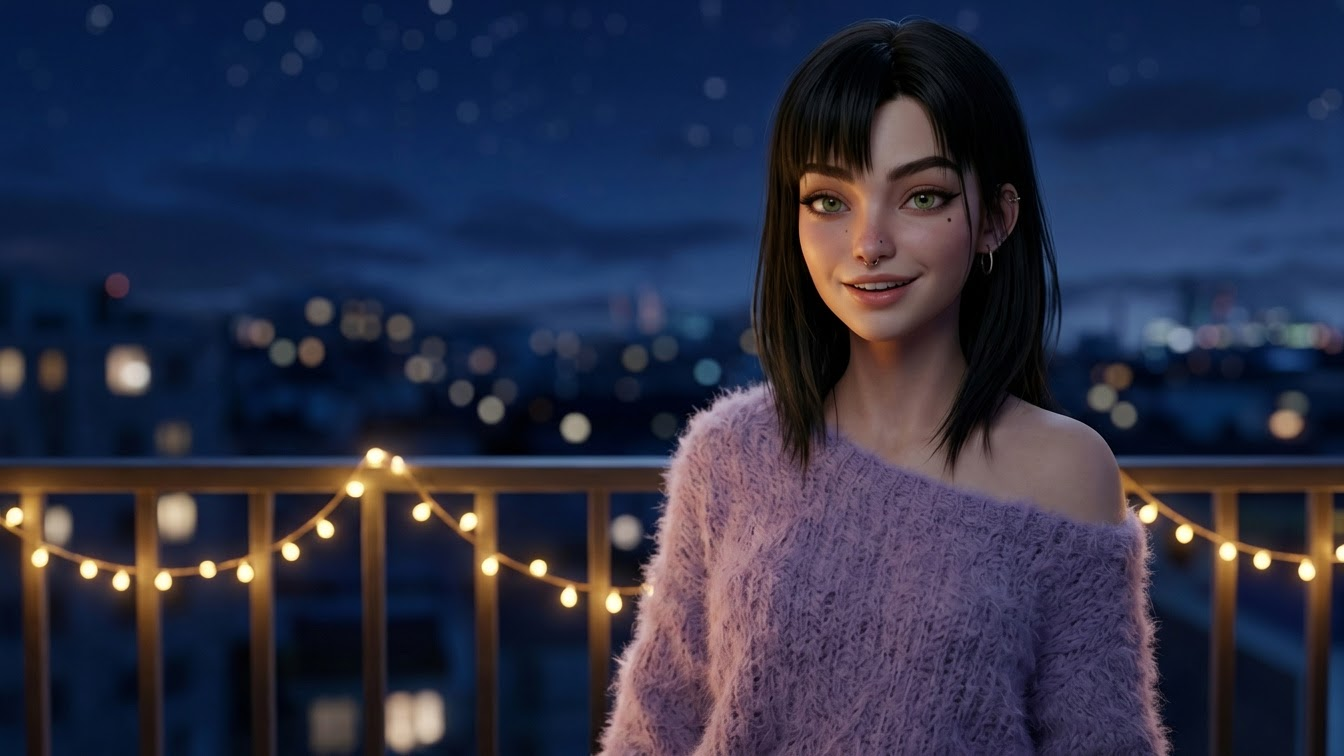
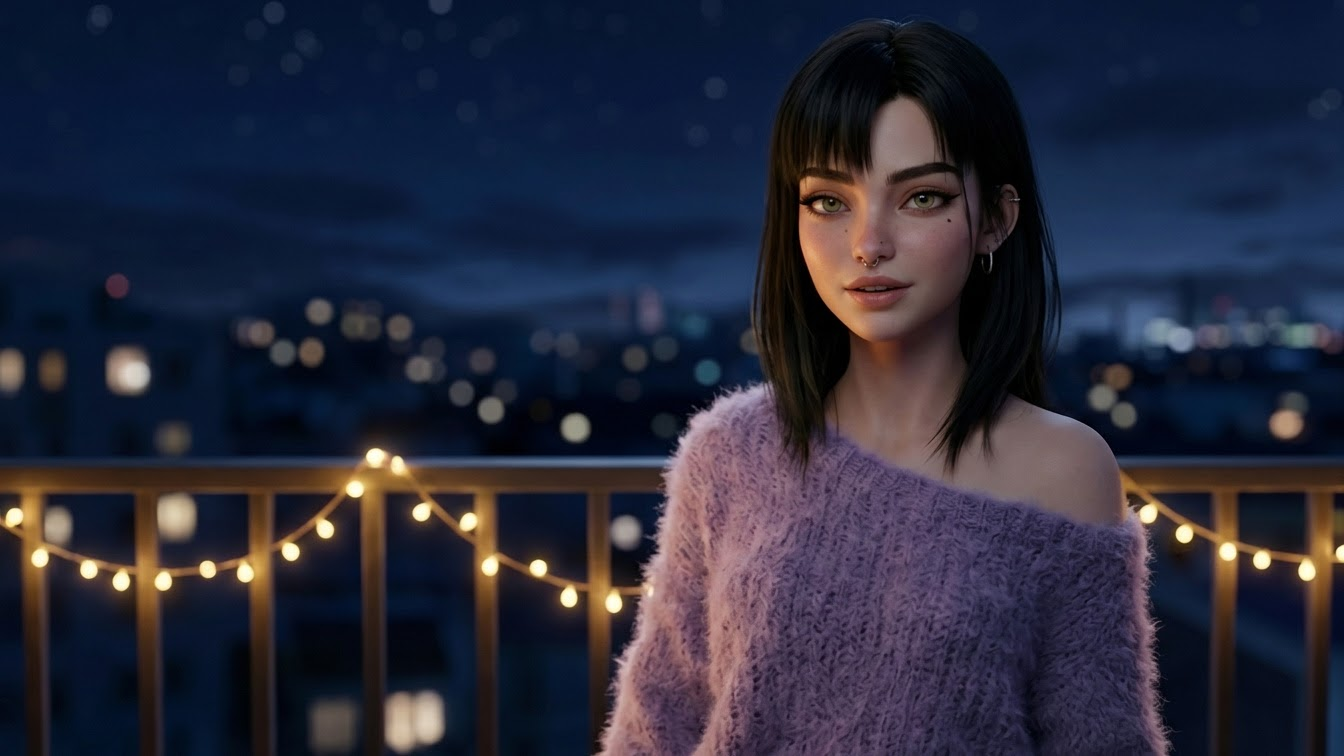
V8.9 Etappe 5b: Mama einmal vor dem Haus, neue Lynn-Posen N14t/s/k, Mia-Lichtshow ohne Spiegeln/Doppelbilder
Claude-Session: https://claude.ai/code/session_016T1VdBnTGbjTaTfWnHwwss

diff --git a/spiel/dist/index.html b/spiel/dist/index.html
@@ -2485,6 +2485,7 @@ Alter, singt der schief.
 ? „Umdrehen“ -> UMDREHEN wenn !umgedreht
 
 == W4
+@setze wo = 4
 @ton schritte 1.8s
 @uhr +4
 @loop wind aus
@@ -2492,6 +2493,22 @@ Alter, singt der schief.
 @effekt heranzoomen
 @musik party strasse 4
 @warte 2.2
+# V9.0: Mama schreibt vor dem Haus (einmal auf jedem Weg; man kann noch umdrehen). Text unverändert, der Spieler zeigt nur „…“.
+@wenn !mama
+  @setze mama
+  @ton bzzz
+  @handy sperr
+  @benachrichtigung WhatsApp | Mama | Viel Erfolg am Montag, mein Schatz. Du schaffst das ❤
+  @benachrichtigung WhatsApp | Mama | Papa sagt auch toi toi toi 🍀
+  @tipp
+  ~ …
+  … !2
+  @handy zu
+  ? „Reingehen.“ -> W4_REIN
+  ? „Umdrehen.“ -> UMDREHEN wenn !umgedreht
+@ende
+
+== W4_REIN
 @bild TREPPE_HELL schnitt
 Die Bässe gehen bis auf die Treppe.
 -> PARTY_ANKUNFT
@@ -2596,7 +2613,6 @@ Oh Mann …
 Jonas hat nicht zu viel versprochen.
 @wenn ankunft>22:45
   @setze lied
-  @rufe MAMA
 @ende
 @bild B12T schnitt
 Jonas!: „NA ALSO!“
@@ -2759,15 +2775,18 @@ Jonas: „Der ist so dicht, der kann nix dafür.“
   … !3
   @bild N32dC gesicht
   Ich singe mit.
-  @setze mama
-  @ton bzzz
-  @handy sperr
-  @benachrichtigung WhatsApp | Mama | Viel Erfolg am Montag, mein Schatz. Du schaffst das ❤
-  @benachrichtigung WhatsApp | Mama | Papa sagt auch toi toi toi 🍀
-  @tipp
-  ~ Noch 58 Stunden.
-  … !2
-  @handy zu
+  # V9.0: Mama kommt nur noch einmal, vor dem Haus (W4); hier nur, falls sie noch nicht kam
+  @wenn !mama
+    @setze mama
+    @ton bzzz
+    @handy sperr
+    @benachrichtigung WhatsApp | Mama | Viel Erfolg am Montag, mein Schatz. Du schaffst das ❤
+    @benachrichtigung WhatsApp | Mama | Papa sagt auch toi toi toi 🍀
+    @tipp
+    ~ Noch 58 Stunden.
+    … !2
+    @handy zu
+  @ende
   @musik lied aus
   @bild N32dP gesicht
   @warte .8
@@ -3483,7 +3502,9 @@ Fast draußen. Ich dreh mich nochmal um.
 Ich leg meine dazu.
 @abzeichen Zwischen den Jacken
 @setze lied
-@rufe MAMA
+@wenn !mama
+  @rufe MAMA
+@ende
 @musik party leise
 # V8.8 (J1-5): kurz nach dem Feuerlöscher, alle reden noch davon
 @bild FEUER
@@ -7499,7 +7520,9 @@ const Spiel = (() => {
     if (schnell) vz += 6.2 + (MIA_BEATS[MIA_BEATS.length - 1] - MIA_BEATS[0]);
     const folge = ['MM01', 'MK1', 'MM03', 'MM05', 'MK2', 'MM06', 'MM02', 'MM08', 'MK3', 'MM07', 'MM01', 'MM09', 'MM03', 'MK1', 'MM05', 'MM06', 'MK2', 'MM02', 'MM08', 'MM07', 'MK3', 'MM09', 'MM05', 'MM01'];
     const schritte = []; let i = 0, f = 0;
-    while (i < MIA_BEATS.length) { const doppel = !(i >= 16 && i < 24) && !(i >= 40); schritte.push([MIA_BEATS[i], folge[f++ % folge.length]]); i += doppel ? 2 : 1; }
+    while (i < MIA_BEATS.length) { const doppel = !(i >= 16 && i < 24) && !(i >= 40); { // V9.0: kein Bild zweimal in den letzten 5 Schritten (wirkte wie Doppelbild); Reihenfolge zufällig, aber ohne Wiederholung
+        const alle = [...new Set(folge)]; const letzte = schritte.slice(-5).map(x => x[1]); const frei = alle.filter(c => !letzte.includes(c));
+        schritte.push([MIA_BEATS[i], frei[Math.random() * frei.length | 0]]); f++; } i += doppel ? 2 : 1; }
     const weiss = $('#weiss'); const strobo = $('#strobo');
     for (const [zeit, code] of schritte) {
       if (!schnell) { while (Ton.miaPos() >= 0 && Ton.miaPos() < zeit - .025) { await new Promise(r => setTimeout(r, 8)); } }
@@ -7508,7 +7531,7 @@ const Spiel = (() => {
       const z = 1.04 + Math.random() * .22, x = (Math.random() - .5) * 8, y = (Math.random() - .5) * 6, r = (Math.random() - .5) * 4;
       kamera.style.transition = 'none'; kamera.style.transform = `scale(${z + .06}) translate(${x}%,${y}%) rotate(${r}deg)`; void kamera.offsetWidth;
       kamera.style.transition = 'transform .5s cubic-bezier(.2,.8,.2,1)'; kamera.style.transform = `scale(${z}) translate(${x * .8}%,${y * .8}%) rotate(${r * .6}deg)`;
-      welt.classList.toggle('spiegel', Math.random() < .3 && !code.startsWith('MK'));
+      welt.classList.remove('spiegel');   // V9.0: Mia nicht mehr spiegeln (wirkte wie Doppelbild)
       if (Math.random() < .6) { weiss.classList.remove('an', 'kurz'); void weiss.offsetWidth; weiss.classList.add('an', 'kurz'); }
       // Stroboskop: immer wieder ganz kurze, ultrahelle weiße Blitze
       if (!schnell && Math.random() < .42) { const n = 3 + (Math.random() * 3 | 0); for (let k = 1; k <= n; k++) setTimeout(() => { strobo.classList.remove('an'); void strobo.offsetWidth; strobo.classList.add('an'); }, 70 + k * 62); }

diff --git a/spiel/engine.js b/spiel/engine.js
@@ -665,7 +665,9 @@ const Spiel = (() => {
     if (schnell) vz += 6.2 + (MIA_BEATS[MIA_BEATS.length - 1] - MIA_BEATS[0]);
     const folge = ['MM01', 'MK1', 'MM03', 'MM05', 'MK2', 'MM06', 'MM02', 'MM08', 'MK3', 'MM07', 'MM01', 'MM09', 'MM03', 'MK1', 'MM05', 'MM06', 'MK2', 'MM02', 'MM08', 'MM07', 'MK3', 'MM09', 'MM05', 'MM01'];
     const schritte = []; let i = 0, f = 0;
-    while (i < MIA_BEATS.length) { const doppel = !(i >= 16 && i < 24) && !(i >= 40); schritte.push([MIA_BEATS[i], folge[f++ % folge.length]]); i += doppel ? 2 : 1; }
+    while (i < MIA_BEATS.length) { const doppel = !(i >= 16 && i < 24) && !(i >= 40); { // V9.0: kein Bild zweimal in den letzten 5 Schritten (wirkte wie Doppelbild); Reihenfolge zufällig, aber ohne Wiederholung
+        const alle = [...new Set(folge)]; const letzte = schritte.slice(-5).map(x => x[1]); const frei = alle.filter(c => !letzte.includes(c));
+        schritte.push([MIA_BEATS[i], frei[Math.random() * frei.length | 0]]); f++; } i += doppel ? 2 : 1; }
     const weiss = $('#weiss'); const strobo = $('#strobo');
     for (const [zeit, code] of schritte) {
       if (!schnell) { while (Ton.miaPos() >= 0 && Ton.miaPos() < zeit - .025) { await new Promise(r => setTimeout(r, 8)); } }
@@ -674,7 +676,7 @@ const Spiel = (() => {
       const z = 1.04 + Math.random() * .22, x = (Math.random() - .5) * 8, y = (Math.random() - .5) * 6, r = (Math.random() - .5) * 4;
       kamera.style.transition = 'none'; kamera.style.transform = `scale(${z + .06}) translate(${x}%,${y}%) rotate(${r}deg)`; void kamera.offsetWidth;
       kamera.style.transition = 'transform .5s cubic-bezier(.2,.8,.2,1)'; kamera.style.transform = `scale(${z}) translate(${x * .8}%,${y * .8}%) rotate(${r * .6}deg)`;
-      welt.classList.toggle('spiegel', Math.random() < .3 && !code.startsWith('MK'));
+      welt.classList.remove('spiegel');   // V9.0: Mia nicht mehr spiegeln (wirkte wie Doppelbild)
       if (Math.random() < .6) { weiss.classList.remove('an', 'kurz'); void weiss.offsetWidth; weiss.classList.add('an', 'kurz'); }
       // Stroboskop: immer wieder ganz kurze, ultrahelle weiße Blitze
       if (!schnell && Math.random() < .42) { const n = 3 + (Math.random() * 3 | 0); for (let k = 1; k <= n; k++) setTimeout(() => { strobo.classList.remove('an'); void strobo.offsetWidth; strobo.classList.add('an'); }, 70 + k * 62); }

diff --git a/spiel/t8.py b/spiel/t8.py
@@ -1,6 +1,6 @@
 import asyncio, sys, json, random
 from playwright.async_api import async_playwright
-VERBOTEN=['Umdrehen','„Doch bleiben.“','Doch bleiben.','Löschen.']
+VERBOTEN=['Umdrehen','Umdrehen.','„Umdrehen.“','„Doch bleiben.“','Doch bleiben.','Löschen.']
 SZ={
  'A1_flow_zuhause':['Nee, ich glaub ich bin raus. Muss echt noch lernen 😕','Senden.','Nein.','Weiter.','Weiter.','Lynn schreiben.','Löschen.','Lynn schreiben.','Senden.','Schlafen.','Nachschauen.','was war mit dem feuerlöscher?? 😂','Anschauen.','Phänomenal.','Senden.','Liegen lassen.'],
  'A2_flow_handyweg':['Nee, ich glaub ich bin raus. Muss echt noch lernen 😕','Senden.','Nein.','Weiter.','Weiter.','Handy weg.','Liegen bleiben.','Nichts schreiben.','Nicht.','Scheiße.','Senden.','Liegen lassen.'],

diff --git a/spiel/proc/v90_lynn.py b/spiel/proc/v90_lynn.py
@@ -1,0 +1,4 @@
+# V9.0: Lynn-Balkon-Posen N14t/N14s/N14k neu (nur Mund geändert, Gesicht gleich). Wiederholbar.
+src = open('/home/claude/du-verpasst-was/spiel/proc/v88_bilder.py', encoding='utf-8').read()
+exec(src[:src.index('# ---------- A1')])
+for c in ['N14t', 'N14s', 'N14k']: webp(c, pil2cv(nur_himmel(cv2pil(fertig(lade(c), 1920, 1072)))))
